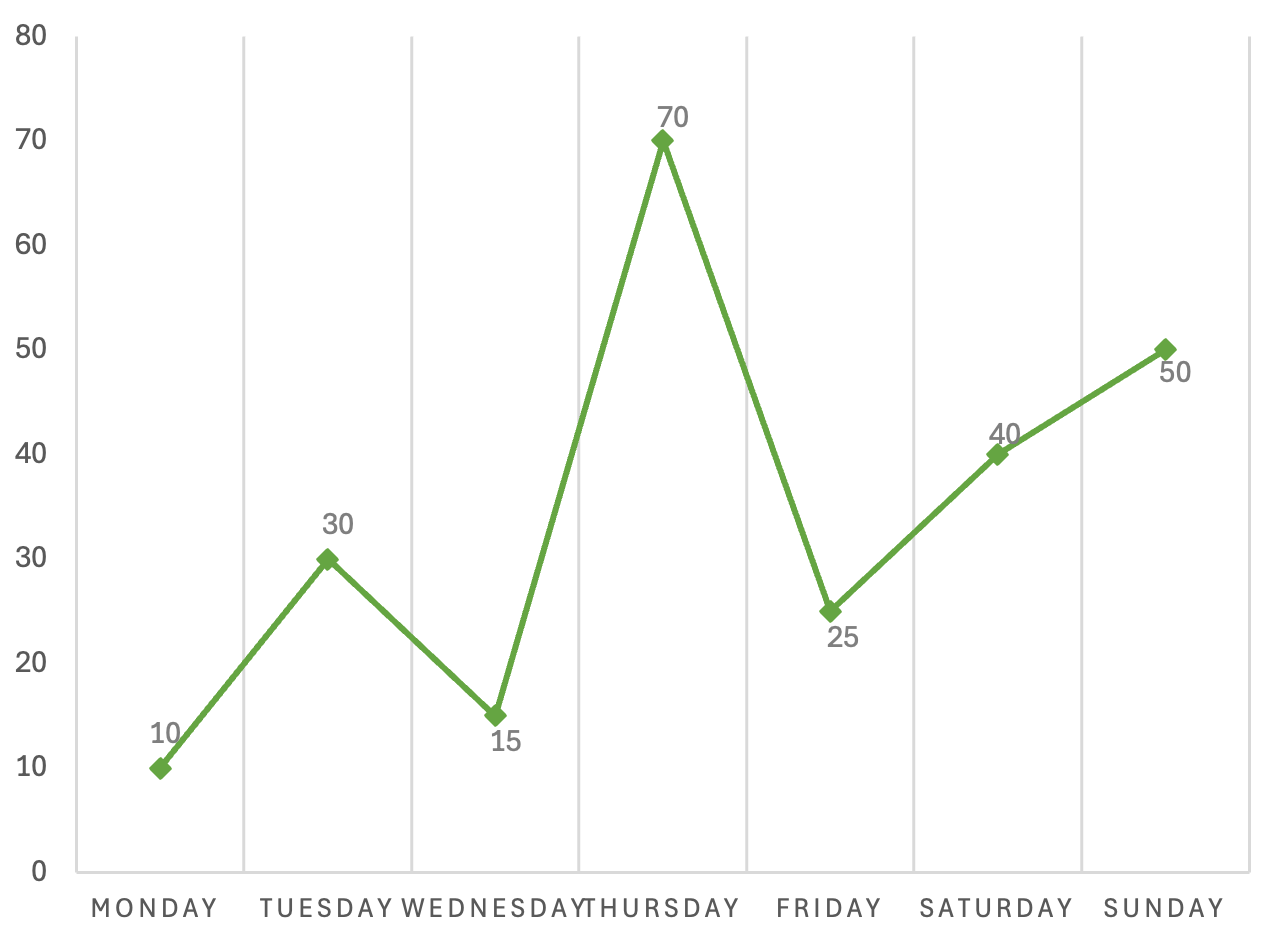
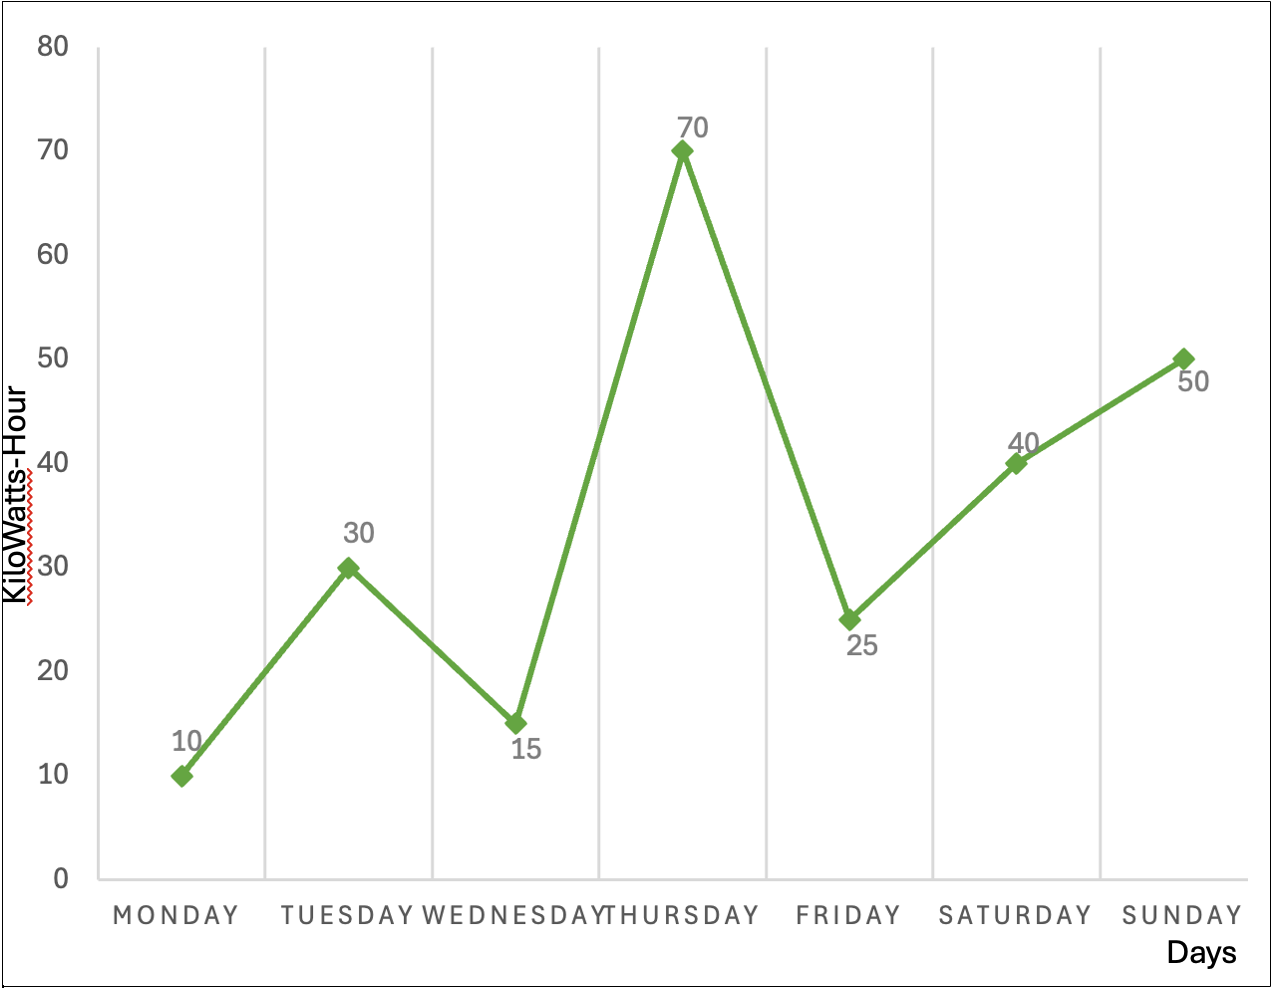
added legends to graph.png for demo page

diff --git a/HowItWorks.html b/HowItWorks.html
@@ -27,21 +27,15 @@
 	<section class="description">
 		<h2>How it works?</h2>
 
-		<p>This dashboard provides a comprehensive and easy-to-understand overview of your household energy usage,
-			allowing you to
-			track consumption in real time and over longer periods. It presents key information through simple visual
-			elements such
-			as charts, progress indicators, and summaries, helping you quickly identify patterns and trends in your
-			energy
-			behaviour.<br />
-			The dashboard highlights important details such as expected costs and remaining energy, supporting more
-			informed
-			decision-making.<br />
-			Overall, the platform is designed to simplify complex energy data into clear, actionable insights,
-			empowering users to
-			reduce unnecessary consumption, manage expenses more effectively, and build more sustainable energy habits
-			without
-			feeling overwhelmed. </p>
+		<p>WattWise helps you monitor your household energy usage in real time through simple, easy-to-read visuals.
+			<br>•⚡ Track daily and weekly energy usage<br>•💲 Monitor estimated bills and remaining limits<br>
+			•📊 Discover patterns to reduce unnecessary consumption <br>
+			Our dashboard turns complex energy data into clear insights so you can save energy, lower costs, and build
+			smarter
+			habits.
+
+		</p>
+
 	</section>
 
 	<!-- GREETING -->
